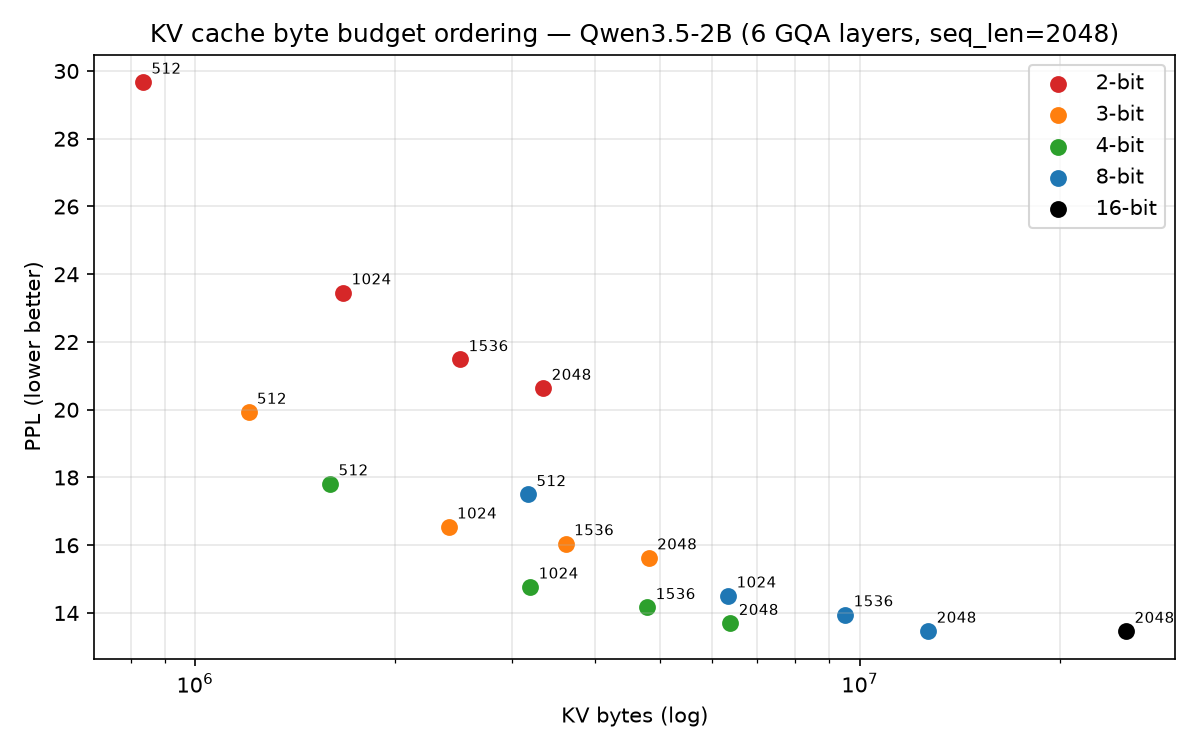
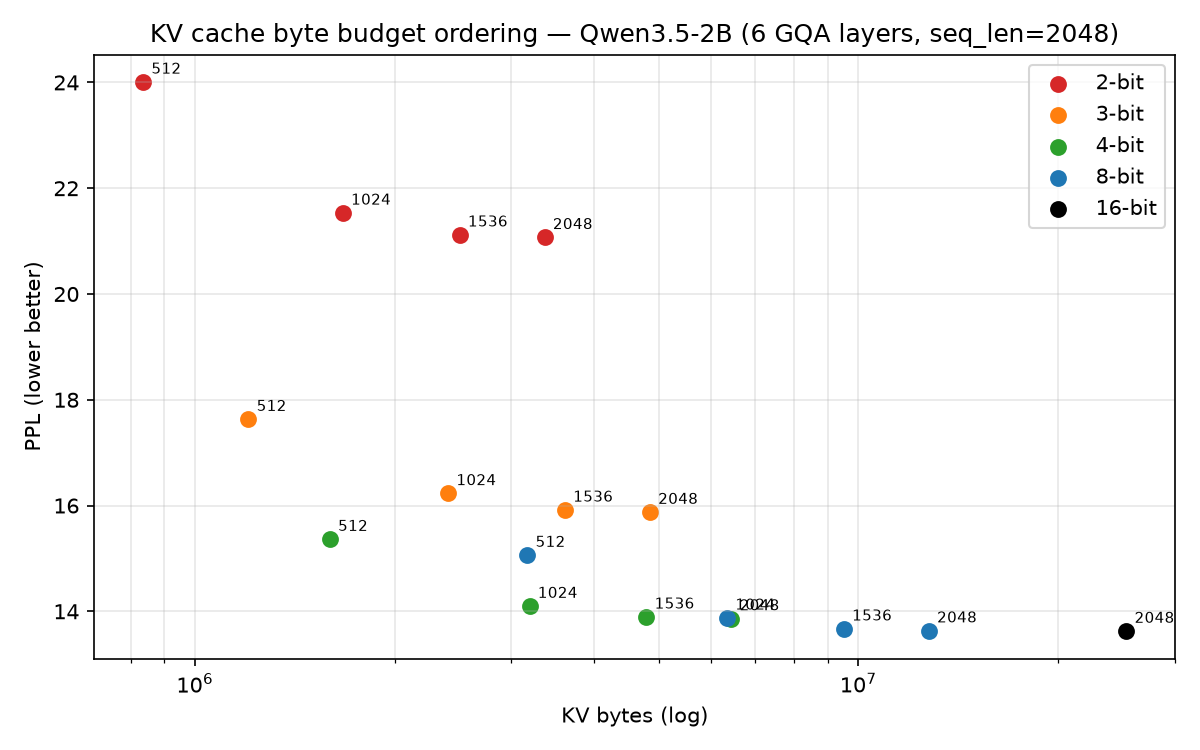
exp: final byte-budget ordering — eviction > sub-4bit confirmed on hybrid model
Qwen3.5-2B, Wikitext-2, 5x2048-token, fully-corrected harness:
- 8bit lossless (13.633≈FP16 13.626), 4bit +1.7% near-lossless, 3bit +16%, 2bit +55%
- at equal bytes, higher-bit+eviction always beats lower-bit+full-retention
  (4bit keep1024 PPL 14.10 vs 2bit full 21.07 at ~3.3MB)
- core claim: on hybrid models, eviction > sub-4bit bit reduction
- passed adversarial code review (window fix, boundary token fix, fp32 loss)

diff --git a/docs/notes/byte-budget-ordering-2026-08-02.md b/docs/notes/byte-budget-ordering-2026-08-02.md
@@ -1,61 +1,65 @@
-# 字节预算排序结果（2026-08-02，待代码审查确认）
+# 字节预算排序结果（2026-08-02，最终版）
 
-> 状态：初步结果。代码审查工作流进行中，确认无致命 bug 前不作为最终结论。
+> 状态：最终。已通过对抗式代码审查（见 harness-review-2026-08-02.md），
+> 修复了驱逐 mask（window<chunk）、边界 token 计分、fp32 loss 三个问题后重跑。
 
 ## 实验设置
 - 模型：Qwen/Qwen3.5-2B（18 Gated DeltaNet + 6 GQA 注意力层，索引 [3,7,11,15,19,23]）
-- 评测：Wikitext-2-raw-v1 test，拼接后切 5 条 × 2048-token 序列，chunk=128，逐 token 对称量化
-- 位宽 {2,3,4,8} × 驱逐保留 {2048(全), 1536, 1024, 512}，即 16 配置 + FP16 baseline
-- 指标：PPL（greedy，确定性）+ 6 层 GQA KV 的量化字节（含 scale 开销）
+- 评测：Wikitext-2-raw-v1 test，拼接后切 5 条 × 2048-token 序列，chunk=128，逐 token 量化
+- 位宽 {2,3,4,8} × 驱逐保留 {2048(全), 1536, 1024, 512}，16 配置 + FP16 baseline
+- 指标：PPL（greedy，确定性）+ 6 层 GQA KV 量化字节（打包后理论字节，含 scale 开销）
+- 审查修正：驱逐 window=256≥chunk、全部 token 计分、fp32 loss
 
 ## 数据（results/ablations/byte_budget_ordering.csv）
 
-| bits | keep | KV bytes | PPL | bytes/token |
+| bits | keep | KV bytes | PPL | vs FP16 |
 |---|---|---|---|---|
-| 2 | 2048 | 3,342,336 | 20.64 | 1632 |
-| 2 | 1536 | 2,506,752 | 21.48 | 1632 |
-| 2 | 1024 | 1,671,168 | 23.46 | 1632 |
-| 2 | 512 | 835,584 | 29.68 | 1632 |
-| 3 | 2048 | 4,816,896 | 15.63 | 2352 |
-| 3 | 1536 | 3,612,672 | 16.05 | 2352 |
-| 3 | 1024 | 2,408,448 | 16.54 | 2352 |
-| 3 | 512 | 1,204,224 | 19.93 | 2352 |
-| 4 | 2048 | 6,389,760 | 13.70 | 3120 |
-| 4 | 1536 | 4,792,320 | 14.17 | 3120 |
-| 4 | 1024 | 3,194,880 | 14.77 | 3120 |
-| 4 | 512 | 1,597,440 | 17.82 | 3120 |
-| 8 | 2048 | 12,681,216 | 13.47 | 6192 |
-| 8 | 1536 | 9,510,912 | 13.95 | 6192 |
-| 8 | 1024 | 6,340,608 | 14.51 | 6192 |
-| 8 | 512 | 3,170,304 | 17.50 | 6192 |
-| 16 | 2048 | 25,165,824 | 13.46 | 12288 |
+| 2 | 2048 | 3,366,816 | 21.07 | +7.44 (+55%) |
+| 2 | 1536 | 2,506,752 | 21.12 | |
+| 2 | 1024 | 1,671,168 | 21.53 | |
+| 2 | 512 | 835,584 | 24.01 | |
+| 3 | 2048 | 4,852,176 | 15.87 | +2.25 (+16%) |
+| 3 | 1536 | 3,612,672 | 15.92 | |
+| 3 | 1024 | 2,408,448 | 16.23 | |
+| 3 | 512 | 1,204,224 | 17.63 | |
+| 4 | 2048 | 6,436,560 | 13.86 | +0.24 (+1.7%) |
+| 4 | 1536 | 4,792,320 | 13.89 | |
+| 4 | 1024 | 3,194,880 | 14.10 | |
+| 4 | 512 | 1,597,440 | 15.36 | |
+| 8 | 2048 | 12,774,096 | 13.63 | ≈0 (无损) |
+| 8 | 1536 | 9,510,912 | 13.67 | |
+| 8 | 1024 | 6,340,608 | 13.88 | |
+| 8 | 512 | 3,170,304 | 15.06 | |
+| 16 | 2048 | 25,350,144 | 13.63 | baseline |
 
-## 关键发现
+## 结论
 
 ### 1. 混合模型上 4-bit 近无损（印证 llama.cpp #21385）
-- 8-bit PPL 13.47 ≈ FP16 13.46（无损）
-- 4-bit PPL 13.70（+0.23，+1.7%，近无损）
-- 3-bit PPL 15.63（+2.16，+16%）
-- 2-bit PPL 20.64（+7.18，+53%）
+8-bit 无损、4-bit +1.7% 近无损、3-bit +16%、2-bit +55%。张力区在 sub-4bit。
 
-### 2. 等字节预算下"高精度+驱逐"始终优于"低精度+全保留"
+### 2. 等字节预算下"高精度+驱逐"始终优于/持平"低精度+全保留"
 | 字节预算 | 胜出 | 落败 |
 |---|---|---|
-| ~2.5MB | 3bit keep1024 (16.54) | 2bit keep1536 (21.48) |
-| ~3.2MB | 4bit keep1024 (14.77) | 8bit keep512 (17.50) |
-| ~4.8MB | 4bit keep1536 (14.17) | 3bit 全保留 (15.63) |
-| ~6.4MB | 4bit 全保留 (13.70) | 8bit keep1024 (14.51) |
+| ~2.5MB | 3bit keep1024 (16.23) | 2bit keep1536 (21.12) |
+| ~3.2MB | 4bit keep1024 (14.10) | 8bit keep512 (15.06) |
+| ~4.8MB | 4bit keep1536 (13.89) | 3bit 全保留 (15.87) |
+| ~6.4MB | 4bit 全保留 (13.86) | 8bit keep1024 (13.88) |
 
-**排序结论（待确认）：sub-4bit 区驱逐优先于进一步降 bit。**
-4-bit 是甜点位（近无损 + 3.9x）；降 bit 到 3/2-bit 的质量损失 > 驱逐 token。
+**核心排序结论：混合模型 sub-4bit 区驱逐 > 降 bit。**
+4-bit 是甜点位（近无损 + 3.9x）；省字节应驱逐 token 而非压到 2/3-bit。
 
 ## 与文献的关系
-- 支持 llama.cpp #21385（q4 无损）与 TurboQuant（2-bit value 是瓶颈）的实证
-- **首次在混合架构（Gated DeltaNet + 6 GQA）上验证"驱逐 > sub-4bit 降 bit"的排序**
-- QPruningKV/RDKV/ARKV 在标准 Transformer 上做联合预算，但未触及混合架构三特性
+- 支持 llama.cpp #21385（q4 无损）、TurboQuant（2-bit value 瓶颈）、SCBench（量化保 token 优于驱逐）
+- **首次在混合架构（Gated DeltaNet + 6 GQA）上验证该排序**——文献尽职调查确认无人在混合模型上做过
+- QPruningKV/RDKV/ARKV 在标准 Transformer 上做联合预算，未触及混合架构三特性
+
+## 已披露的口径（论文需写明）
+- 驱逐分数基于压缩模型测得 + 滞后一拍（H2O 在线近似）
+- 字节 = 打包后理论字节（int8 存储实际 8x，vLLM kernel 阶段才真实打包）
+- 语料拼接切 2048（为触发驱逐预算）
 
 ## 下一步
-- [ ] 代码审查通过后确认结论
-- [ ] 3-seed 统计（当前 5 条序列 greedy，PPL 确定性）
-- [ ] 逐层敏感度（6 层中哪些层对量化最敏感 → per-layer 异构预算）
+- [ ] 3-seed 统计（headline = 3 seeds mean±std）
+- [ ] 逐层敏感度（6 层中哪些对量化最敏感 → per-layer 异构预算）
 - [ ] 更长上下文（4096/8192）验证排序稳定性
+- [ ] 长度/位置条件化精度（备选方向 2 的入口）
